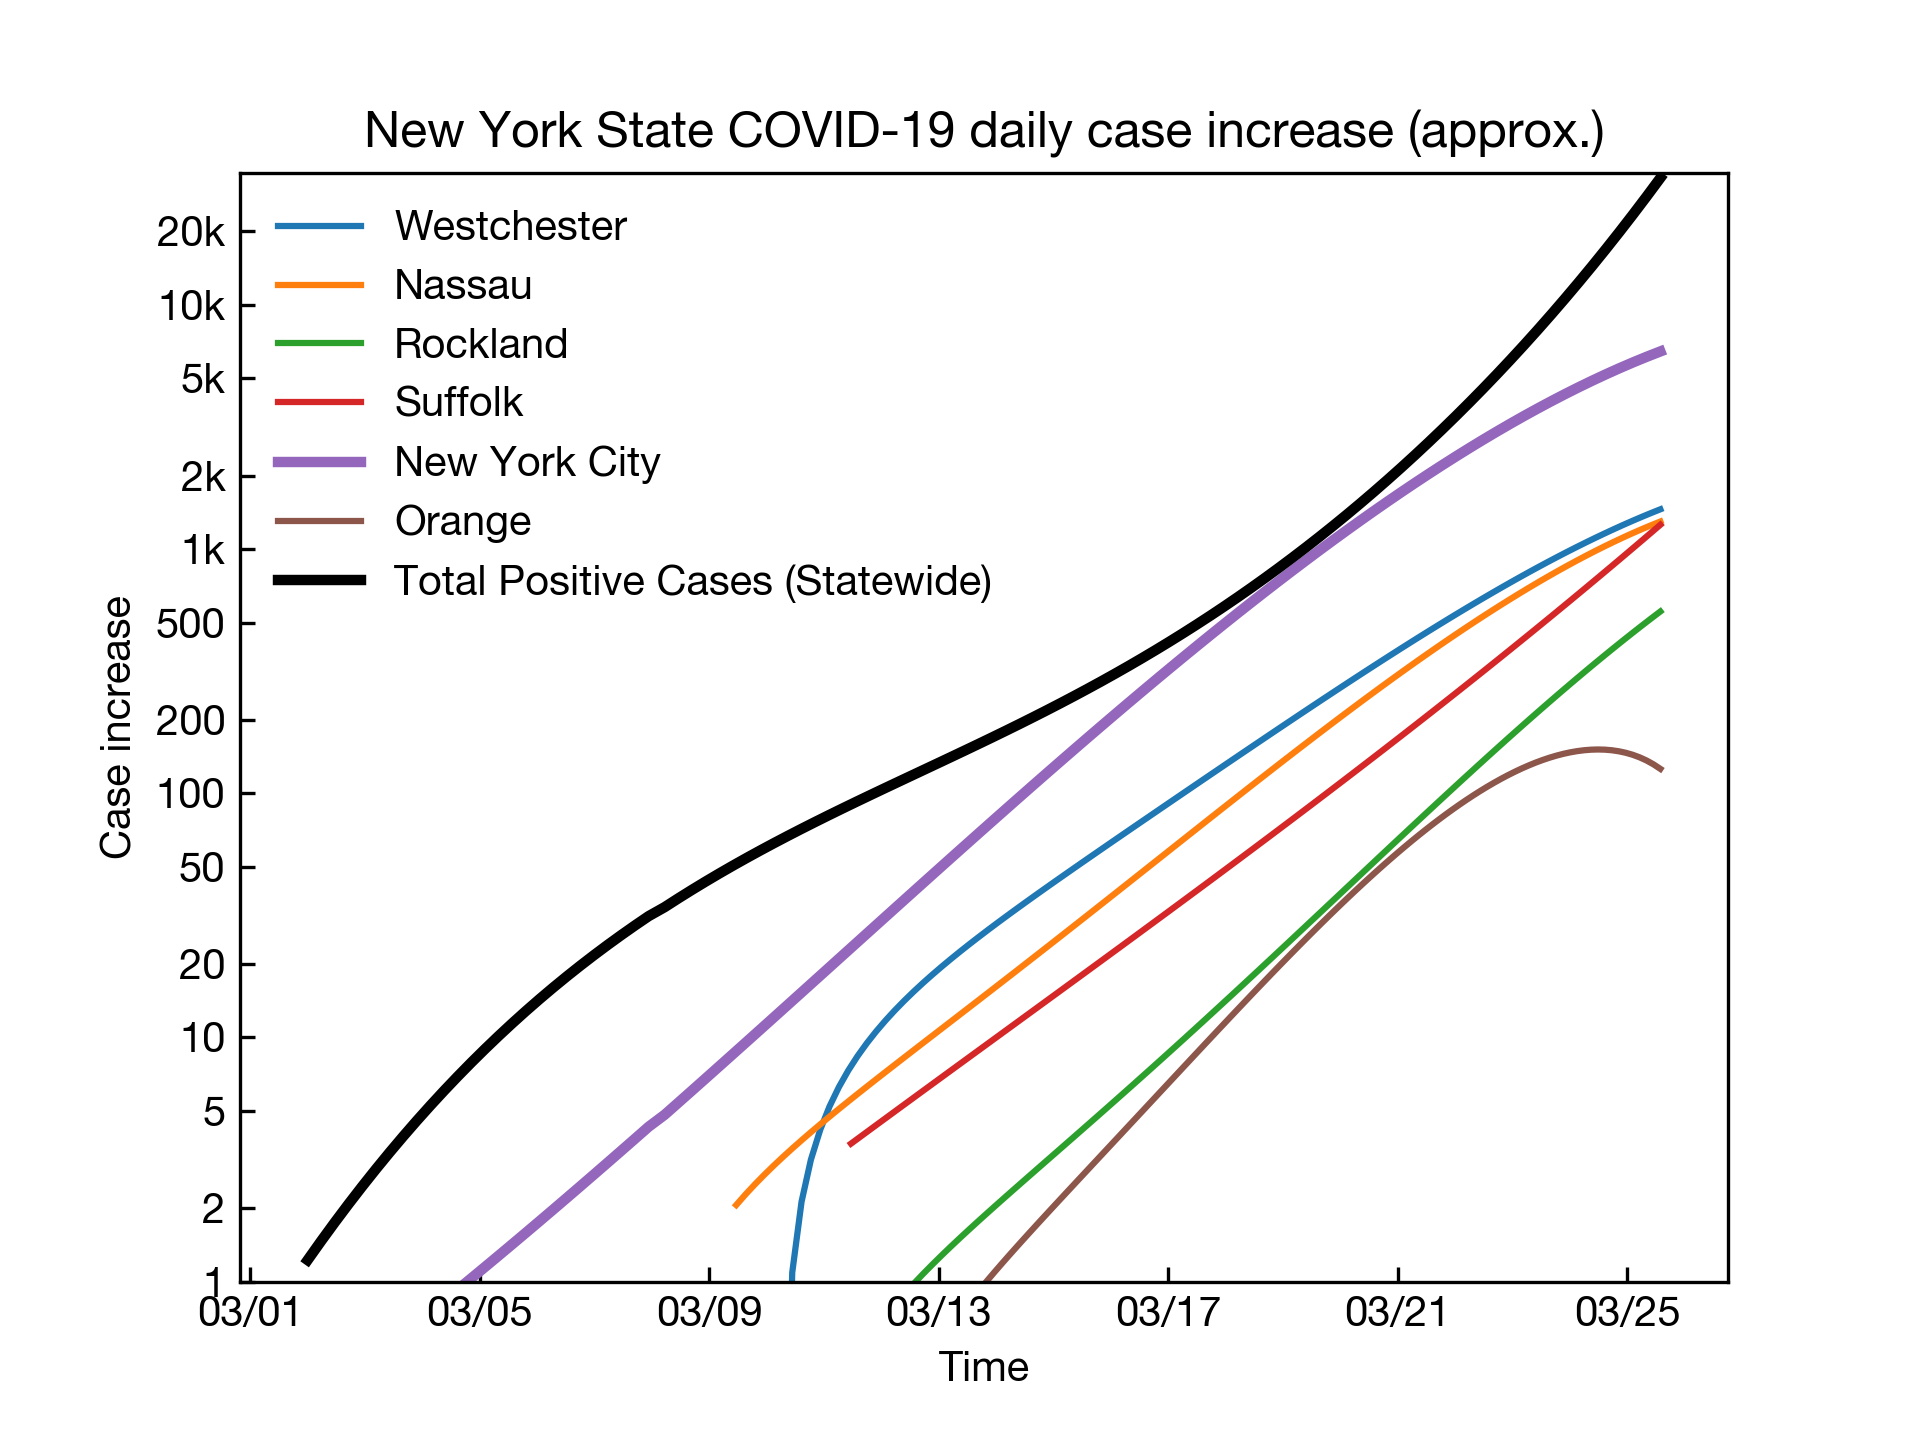
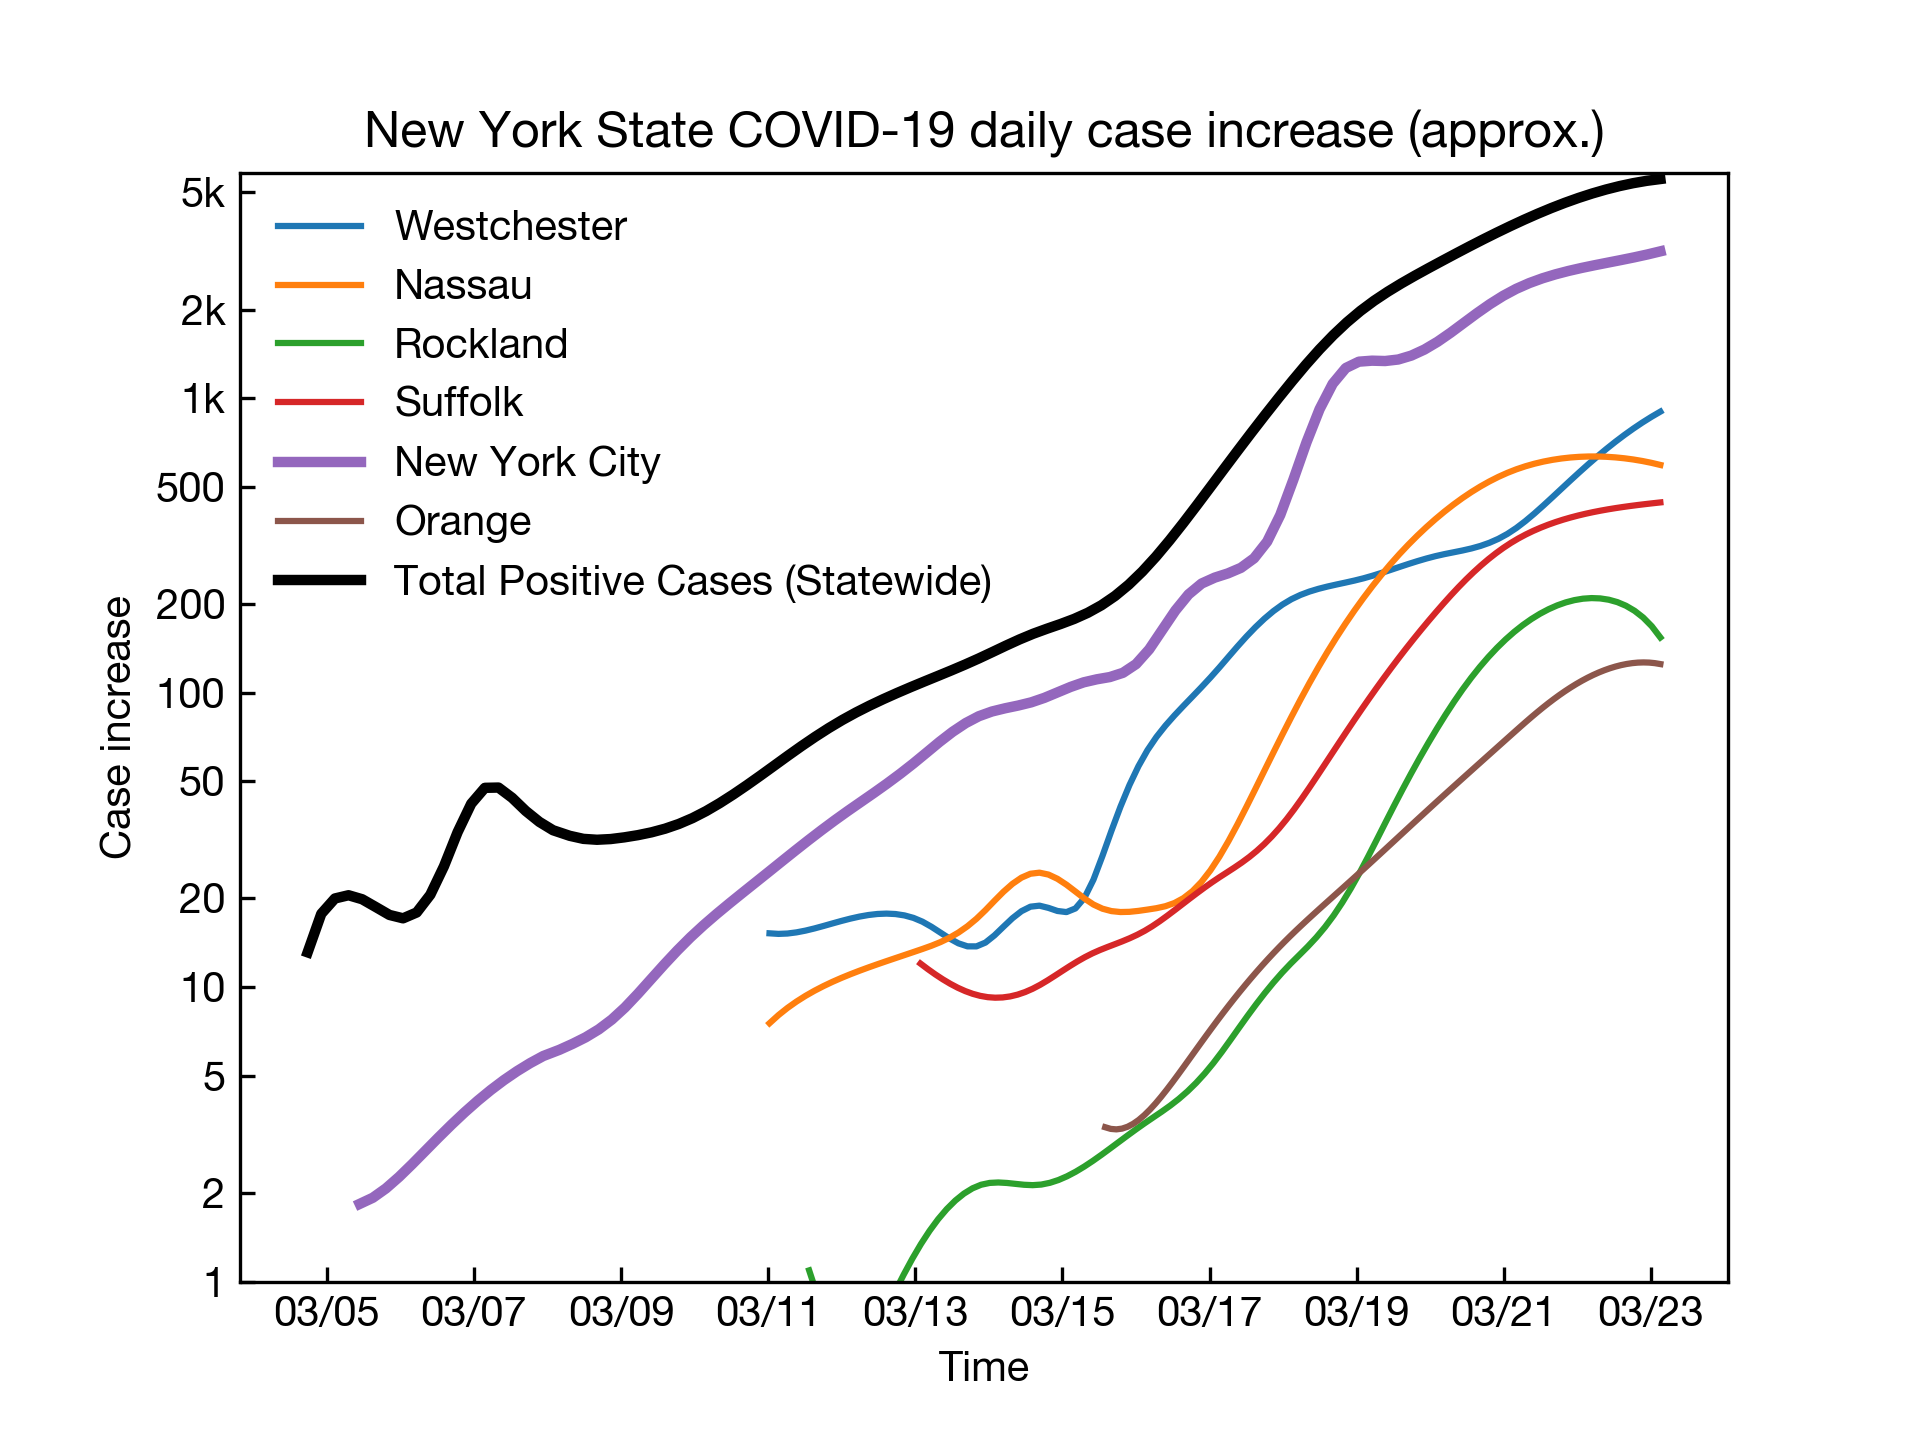
A better increacement rate calculation

diff --git a/scripts/util/rate2.py b/scripts/util/rate2.py
@@ -1,0 +1,30 @@
+import scipy.interpolate
+import scipy.stats
+import numpy
+import datetime
+
+def calc_rate(x_array, y_array,  window=4, num=100, Interpolator=scipy.interpolate.InterpolatedUnivariateSpline):
+
+    lny_array = numpy.log(y_array)
+    length = len(x_array)
+
+    def yield_rate_reg():
+        for i, j in zip(range(0, length - window), range(window, length)):
+            dlny_dx, _, _, _, _ = scipy.stats.linregress(x_array[i:j], lny_array[i:j])
+            x_avg = numpy.average(x_array[i:j])
+            y_avg = numpy.average(y_array[i:j])
+            yield x_avg, dlny_dx * y_avg
+
+    x_rough, dy_dx_rough = zip(*list(yield_rate_reg()))
+    x_new = numpy.linspace(min(x_rough), max(x_rough), num=num)
+
+    #print(numpy.array(dy_dx_rough) * (3600 * 24))
+
+    return x_new, Interpolator(x_rough, dy_dx_rough)(x_new) 
+
+def calc_timeseries_rate(t_array, y_array):
+    x_array = [t.timestamp for t in t_array]
+    x_new, dy_dx_new = calc_rate(x_array, y_array)
+    t_new = [datetime.datetime.fromtimestamp(x) for x in x_new]
+    dy_dt_new = dy_dx_new * (3600 * 24)
+    return t_new, dy_dt_new

diff --git a/scripts/plot_increase_nys.py b/scripts/plot_increase_nys.py
@@ -17,7 +17,10 @@ with open("data/positive_cases.csv") as fp:
         time_array = list(area_data.keys())[1:]
         count_array = list(area_data.values())[1:]
         if len(count_array) < 5: continue
-        time_new, rate_new = timeseries_rate(time_array, count_array)
+        try:
+            time_new, rate_new = timeseries_rate(time_array, count_array)
+        except Exception:
+            continue
         if max(rate_new) < 100: continue
         line, = plt.plot_date(
             time_new, rate_new,
@@ -39,7 +42,10 @@ with open("data/positive_cases.csv") as fp:
         time_array = list(area_data.keys())[1:]
         count_array = list(area_data.values())[1:]
         if len(count_array) < 5: continue
-        time_new, rate_new = timeseries_rate(time_array, count_array)
+        try:
+            time_new, rate_new = timeseries_rate(time_array, count_array)
+        except Exception:
+            continue
         line, = plt.plot_date(
             time_new, rate_new,
             ls="-", marker=None, lw=2.5,

diff --git a/scripts/util/__init__.py b/scripts/util/__init__.py
@@ -1,2 +1,2 @@
 from .si_formatter import LogFormatterSI
-from .rate import calc_timeseries_rate as timeseries_rate
+from .rate2 import calc_timeseries_rate as timeseries_rate

diff --git a/README.md b/README.md
@@ -4,10 +4,19 @@ Positive cases tracker for New York State.
 
 ## Result
 
+### Total
+
 ![](plots/NYState3.png)
 ![](plots/NYState2.png)
 ![](plots/NYState4.png)
 ![](plots/NYState5.png)
+
+
+### An estimation of increacement 
+
+
+![](plots/rate_nys.png)
+![](plots/rate.png)
 
 ## Usage
 
